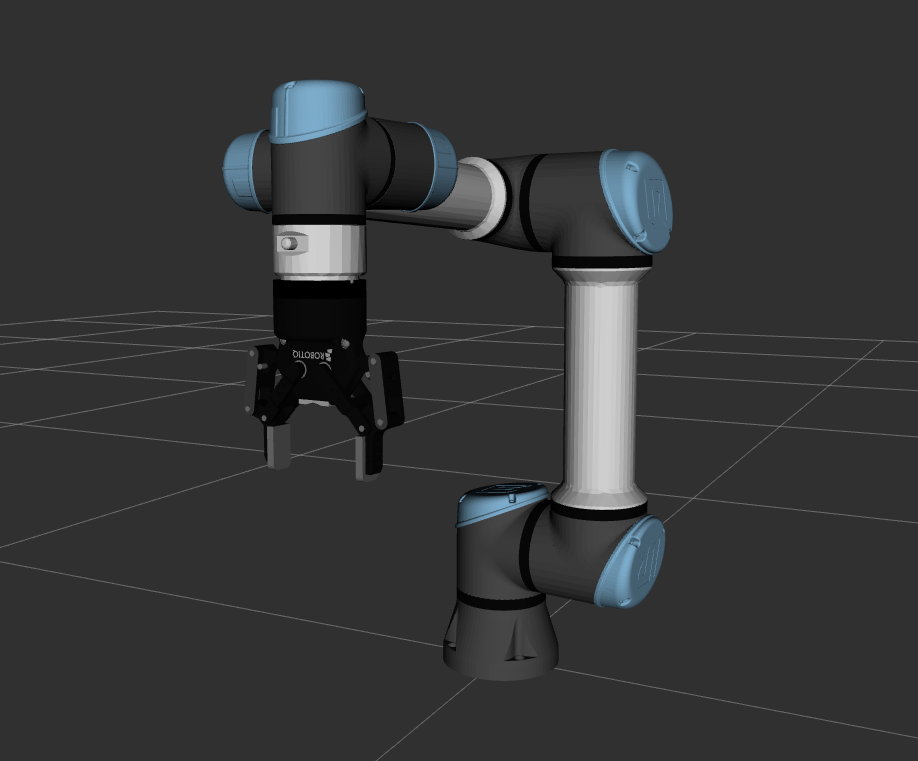
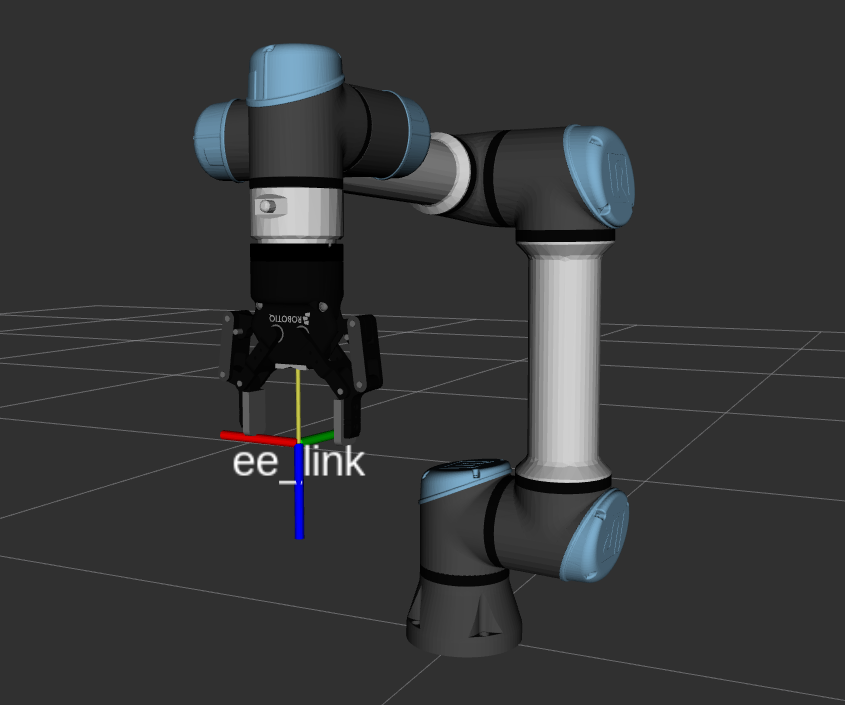
added ee_link frame in the img

diff --git a/README.md b/README.md
@@ -226,8 +226,8 @@ It contains the urdf and meshes for the robotiq gripper.
 
 ## UR5 Gripper Description
 
-This package combines the urdf of UR5 with the urdf of the robotiq gripper.
-It attaches the gripper at the tool0 of the UR5. 
+This package combines the urdf of UR5 with the robotiq gripper.
+It attaches the gripper at the tool0 frame of the UR5. 
 <p align="center">
 <img src="https://github.com/JuoTungChen/ROS2_pick_and_place_UR5/blob/master/ur5_gripper_description/ur5_gripper.png" width="400">
 
